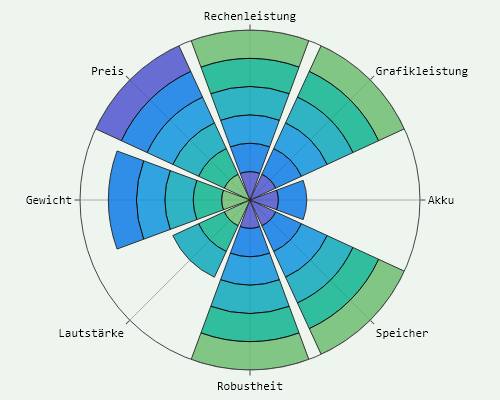
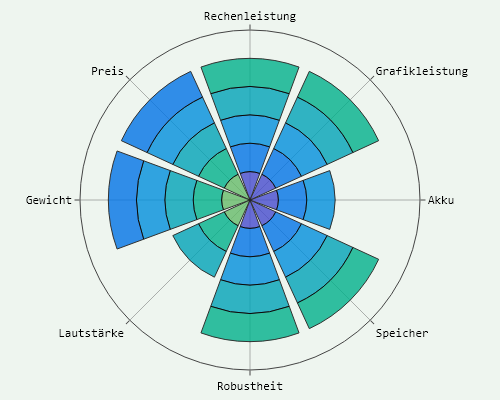
added final notebook model

Changed region(s): [[0.18, 0.06, 0.81, 0.36], [0.36, 0.63, 0.81, 0.93], [0.6, 0.42, 0.69, 0.57]]

diff --git a/FinalNotebookModel.py b/FinalNotebookModel.py
@@ -1,0 +1,150 @@
+from AvailableOptionsModel import AvailableOptionsModel
+
+class FinalNotebookModel:
+    
+    def __init__(self):
+
+        self.finalConfig = AvailableOptionsModel.getSavedIndexValues()
+
+        self.availableCaseDict = {
+            1: 'Plastik',
+            2: 'Plastik',
+            3: 'Plastik',
+            4: 'Aluminium & Plastik',
+            5: 'Aluminium',
+            6: 'Verbundstoff, Aluminium',
+            7: 'Aluminium (Einblockguss)',
+            8: 'Carbon'
+        }
+
+        self.availableProcessorsDict = {
+            1: 'Intel Atom x5 2C 1.80GHz, 2 Core',
+            2: 'Intel Atom x5 2C 1.80GHz, 2 Core',
+            3: 'Intel Core i3-8109U 3.00GHz, 2 Core',
+            4: 'AMD Ryzen 3 3300U, 2.10GHz, 4 Core',
+            5: 'Intel Core i5-8400H 2.50GHz, 4 Core',
+            6: 'Intel Core i7-9750H 2.60GHz, 6 Core',
+            7: 'Intel Core i9-10980HK 2.40GHz, 8 Core',
+            8: 'AMD Ryzen 9 5900HX, 3.30 GHz, 8 Core'
+        }
+
+        self.availableRamDict = {
+            1: '4 GB DDR3 1866 MHz (eff.)',
+            2: '4 GB DDR4 1866 MHz (eff.)',
+            3: '8 GB DDR4 2133 MHz (eff.)',
+            4: '8 GB DDR4 2400 MHz (eff.)',
+            5: '16 GB DDR4 2400 MHz (eff.)',
+            6: '16 GB DDR4 3200 MHz (eff.)',
+            7: '32 GB DDR5 3200 MHz (eff.)',
+            8: '48 GB DDR5 4000 MHz (eff.)'
+        }
+
+        self.availableStorageDict = {
+            1: '250 GB HDD',
+            2: '120 GB SSD',
+            3: '200 GB SSD',
+            4: '200 GB SSD, 500 GB HDD',
+            5: '500 GB SSD',
+            6: '500 GB SSD, 1 TB HDD',
+            7: '1 TB SSD',
+            8: '2 TB SSD'
+        }
+
+        self.availableGPUDict = {
+            1: 'onboard',
+            2: 'onboard',
+            3: 'onboard',
+            4: 'NVIDIA GeForce GTX 980M',
+            5: 'NVIDIA GeForce RTX 2060 Mobile',
+            6: 'AMD Radeon RX 6700M',
+            7: 'NVIDIA GeForce GTX 1080 SLI ',
+            8: 'GeForce RTX 3080 Laptop GPU'
+        }
+
+        self.availableGPUIfProfessionalDict = {
+            1: 'onboard',
+            2: 'onboard',
+            3: 'onboard',
+            4: 'NVIDIA GeForce GTX 980M',
+            5: 'NVIDIA GeForce RTX 2060 Mobile',
+            6: 'AMD Radeon RX 6700M',
+            7: 'NVIDIA Quadro RTX 5000',
+            8: 'Quadro RTX 6000'
+        }
+
+        self.availableScreenDict = {
+            1: '13 Zoll 720p',
+            2: '13 Zoll 1080p',
+            3: '14 Zoll 1080p',
+            4: '14 Zoll 1080p',
+            5: '15 Zoll 1080p',
+            6: '16 Zoll 1080p',
+            7: '16 Zoll 4K',
+            8: '17 Zoll 4K'
+        }
+
+        self.availableBatteryDict = {
+            1: 'Laufzeit (Durchschn.: 1 Std.)',
+            2: 'Laufzeit (Durchschn.: 2 Std.)',
+            3: 'Laufzeit (Durchschn.: 4 Std.)',
+            4: 'Laufzeit (Durchschn.: 5 Std.)',
+            5: 'Laufzeit (Durchschn.: 7 Std.)',
+            6: 'Laufzeit (Durchschn.: 10 Std.)',
+            7: 'Laufzeit (Durchschn.: 12 Std.)',
+            8: 'Laufzeit (Durchschn.: >12 Std.)',       }        
+
+        self.availableCoolerSystemDict = {
+            1: 'passiv',
+            2: 'passiv',
+            3: 'passiv',
+            4: '1 CPU Lüfter',
+            5: '1 CPU Lüfter',
+            6: '1 CPU Lüfter, 1 Gehäuselüfter',
+            7: '1 CPU Lüfter, 1 Gehäuselüfter',
+            8: '3 Lüfter'
+        }
+
+        self.pricesDict = {   
+            1: 280,
+            2: 450,
+            3: 700,
+            4: 900,
+            5: 1600,
+            6: 2300,
+            7: 3200,
+            8: 4600
+        }
+
+        self.dictionaryCollection = [self.availableProcessorsDict, self.pricesDict, self.availableScreenDict, 
+                                    self.availableCoolerSystemDict, self.availableCaseDict, self.availableStorageDict, 
+                                    self.availableBatteryDict, self.availableGPUDict, self.availableRamDict]
+
+                                    # Ram ud Graka 2
+
+    def createConfigArray(self):
+        finalConfigurationOnView = []
+        for i in range(8):
+            if self.finalConfig[i]<0: self.finalConfig[i] = 0
+            elif self.finalConfig[i]>7: self.finalConfig[i] = 7
+            if i == 1:
+                if AvailableOptionsModel.getFinalConfigState()[5] == 'Business-Level':
+                    finalConfigurationOnView.append(self.dictionaryCollection[i][self.finalConfig[i]+1]*1.2)
+                elif AvailableOptionsModel.getFinalConfigState()[5] == 'Outdoor/Special':
+                    finalConfigurationOnView.append(self.dictionaryCollection[i][self.finalConfig[i]+1]*1.5)
+                else: finalConfigurationOnView.append(self.dictionaryCollection[i][self.finalConfig[i]+1])
+            elif i == 7:
+                if AvailableOptionsModel.getFinalConfigState()[0] == 'Professional':
+                    finalConfigurationOnView.append(self.availableGPUIfProfessionalDict[self.finalConfig[i]+1])
+                else: finalConfigurationOnView.append(self.dictionaryCollection[i][self.finalConfig[i]+1])
+            else: finalConfigurationOnView.append(self.dictionaryCollection[i][self.finalConfig[i]+1])
+        finalConfigurationOnView.append(self.dictionaryCollection[8][self.finalConfig[0]+1])
+
+        return finalConfigurationOnView
+
+        
+
+
+
+       # self.categories = ['Rechenleistung', 'Preis', 'Gewicht', 'Lautstärke', 'Robustheit', 'Speicher', 'Akku', 'Grafikleistung']    
+
+

diff --git a/FinalNotebookView.py b/FinalNotebookView.py
@@ -1,3 +1,4 @@
+from FinalNotebookModel import FinalNotebookModel
 from ImageData import ImageData
 import PySimpleGUI as gui
 from AvailableOptionsModel import AvailableOptionsModel
@@ -7,16 +8,15 @@ class FinalNotebookView():
 
     def initMainWindow():
         imageData = ImageData() 
+        finalNotebookData = FinalNotebookModel()
        
         buttonConfirm = gui.Button('FERTIG', image_data=imageData.buttonConfirmPurchase, pad=([74,0],[10,0]), size=(1,1), key='btnConfirmAndFinish', button_color=('white', '#66bb6a'))
        
-        infoTextButtonOne =   gui.Text('  \n \n \n \n \n \n', font='Consolas 8', background_color='#eef5ef', text_color='black', key='textInfoButtonOne', pad=([81,0],[20,50]))
         infoTextRowNamesUserSelection = gui.Text('Anwendung/Leistung \nPreis \nGewicht und Größe \nAkkulaufzeit \nLautstärke \nRobustheit \n',font='Consolas 10', background_color='#eef5ef', text_color='black', pad=([80,0],[0,0]))
         infoTextCurrentUserSelection =   gui.Text('                                                                                          \n \n \n \n \n \n', font='Consolas 10', background_color='#eef5ef', text_color='black', key='textRightColumnInfoFinalSelection', pad=([20,0],[0,0]))
         headingLeftColumn = gui.Text('Ihre optimale Konfiguration', background_color='#252525', text_color='white', border_width=15, size=(45,1), justification='center', key='headingLeftColumn', pad=([81,0],[35,25]))
         headingRightColumn = gui.Text('Leistungsindex', text_color='white', background_color='#252525', border_width=15, size=(33,1), justification='center', pad=([81,0],[35,25]))
         plotCanvas = gui.Image(key='plotCanvas', pad=([0,0],[20,0]), size=(500,400), background_color='#eef5ef', filename='plotImages/radarplotUserSelection4.png')    
-        partsOverview = gui.Image(pad=([74,0],[10,0]), size=(450,400), background_color='#eef5ef', filename='ressources/secondScreenBg.png')    
 
         
 
@@ -55,9 +55,9 @@ class FinalNotebookView():
                         6: 'keyAkku',
                         7: 'keyLüftersystem',
                         8: 'keyPreis'
-                       
         }
 
+        print(finalNotebookData.createConfigArray())
 
         colLeft = []      
         for i in range(9):

diff --git a/ViewController.py b/ViewController.py
@@ -78,7 +78,7 @@ class ViewController(object):
         for i in range(6):
             self.propsData.savedConfigurations.append(self.propsData.userSelection[i+1][(self.propsData.allOptions[i][2])-1])  
         window[keyDic[8]].update("\n".join(self.propsData.savedConfigurations))
-        AvailableOptionsModel.setFinalConfigState(self.propsData.savedConfigurations)
+        AvailableOptionsModel.setFinalConfigState(self.propsData.savedConfigurations, self.propsData.partIndexValues)
 
 
     def checkPrevAndNextButtonStates(self, buttonClicked, window):

diff --git a/AvailableOptionsModel.py b/AvailableOptionsModel.py
@@ -1,13 +1,19 @@
 savedConfigFinalState = []
+savedIndexValues = []
 
 class AvailableOptionsModel(object):   
 
-    def setFinalConfigState(config):
+    def setFinalConfigState(config, parts):
         global savedConfigFinalState
+        global savedIndexValues
         savedConfigFinalState = config
+        savedIndexValues = parts
 
     def getFinalConfigState():
         return savedConfigFinalState
+
+    def getSavedIndexValues():
+        return savedIndexValues
 
 
     def __init__(self):  
